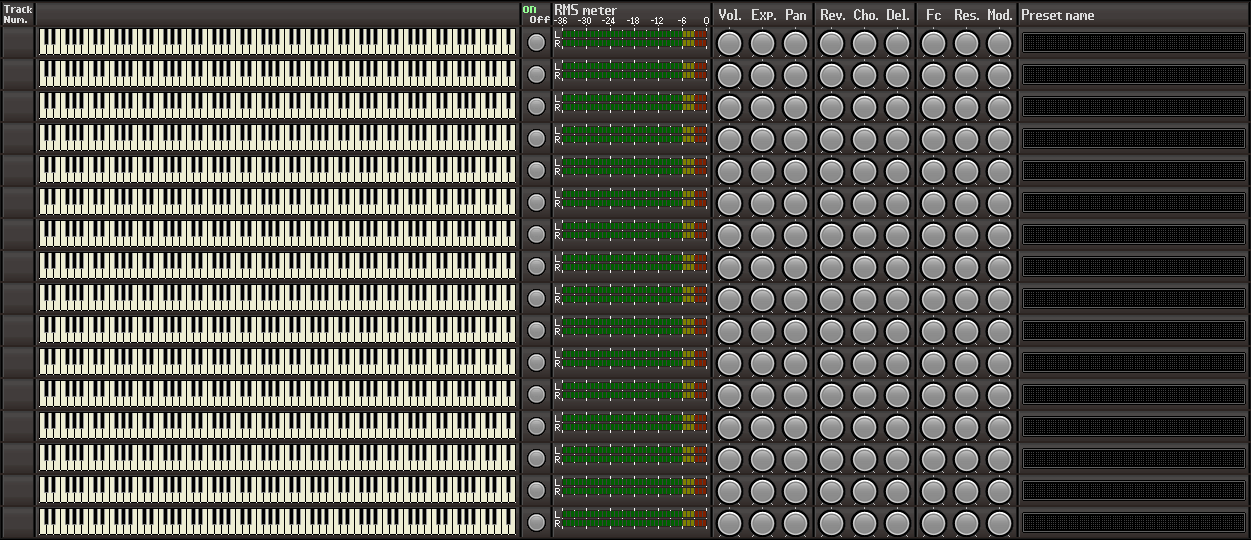
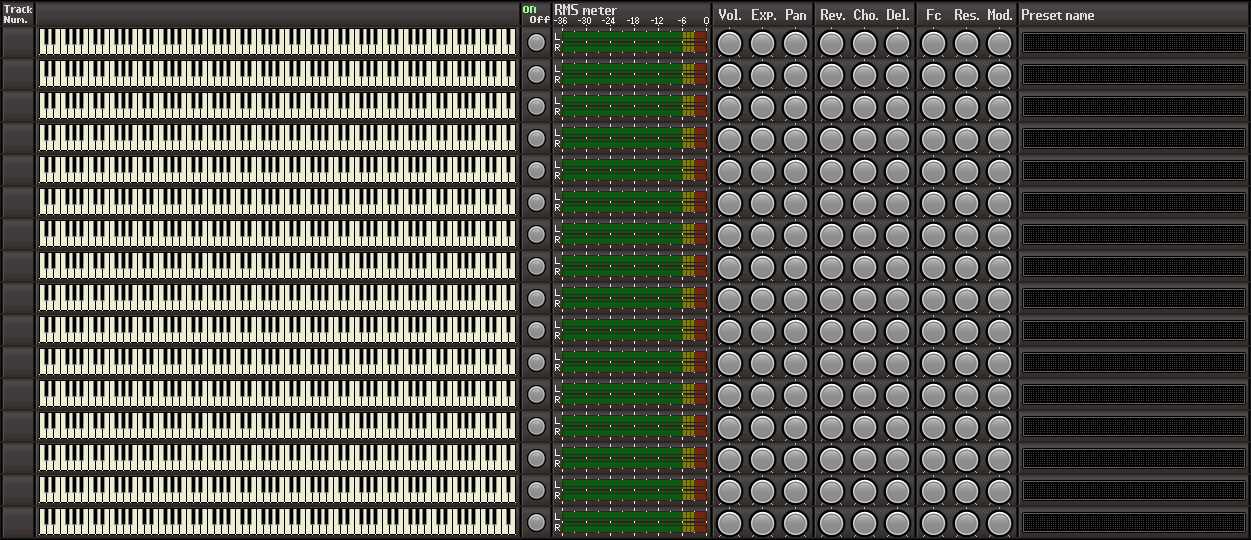
更新

Changed region(s): [[0.4365, 0.0296, 0.5612, 1.0]]

diff --git a/EasySequencer/Monitor.cs b/EasySequencer/Monitor.cs
@@ -45,8 +45,8 @@ namespace EasySequencer {
 
         static readonly Bitmap[,] BMP_FONT = new Bitmap[16, 6];
         static readonly Rectangle RECT_ON_OFF = new Rectangle(527, 33, 28, 30);
-        static readonly Rectangle RECT_METER_L = new Rectangle(563, 31, 144, 6);
-        static readonly Rectangle RECT_METER_R = new Rectangle(563, 40, 144, 6);
+        static readonly Rectangle RECT_RMS_L = new Rectangle(563, 32, 144, 6);
+        static readonly Rectangle RECT_RMS_R = new Rectangle(563, 46, 144, 6);
         static readonly Size SIZE_METER_CELL = new Size(4, 6);
         static readonly Rectangle RECT_PRESET_NAME = new Rectangle(1025, 36, 219, 13);
 
@@ -303,20 +303,18 @@ namespace EasySequencer {
                 }
                 rmsL = 20 * Math.Log10(rmsL);
                 rmsR = 20 * Math.Log10(rmsR);
-                rmsL = Math.Max(RMS_MIN, rmsL);
-                rmsR = Math.Max(RMS_MIN, rmsR);
-                rmsL = Math.Min(RMS_MAX, rmsL);
-                rmsR = Math.Min(RMS_MAX, rmsR);
                 var normL = 1.0 - (rmsL - RMS_MAX) / RMS_MIN;
                 var normR = 1.0 - (rmsR - RMS_MAX) / RMS_MIN;
-                var rmsLpx = (int)(normL * RECT_METER_L.Width + 1) / SIZE_METER_CELL.Width * SIZE_METER_CELL.Width;
-                var rmsRpx = (int)(normR * RECT_METER_R.Width + 1) / SIZE_METER_CELL.Width * SIZE_METER_CELL.Width;
+                var rmsLpx = (int)(normL * RECT_RMS_L.Width + 1) / SIZE_METER_CELL.Width * SIZE_METER_CELL.Width;
+                var rmsRpx = (int)(normR * RECT_RMS_R.Width + 1) / SIZE_METER_CELL.Width * SIZE_METER_CELL.Width;
+                rmsLpx = Math.Min(RECT_RMS_L.Width - 1, rmsLpx);
+                rmsRpx = Math.Min(RECT_RMS_R.Width - 1, rmsRpx);
                 mG.DrawImageUnscaledAndClipped(Resources.Meter, new Rectangle(
-                    RECT_METER_L.X, RECT_METER_L.Y + track_y,
+                    RECT_RMS_L.X, RECT_RMS_L.Y + track_y,
                     rmsLpx, SIZE_METER_CELL.Height
                 ));
                 mG.DrawImageUnscaledAndClipped(Resources.Meter, new Rectangle(
-                    RECT_METER_R.X, RECT_METER_R.Y + track_y,
+                    RECT_RMS_R.X, RECT_RMS_R.Y + track_y,
                     rmsRpx, SIZE_METER_CELL.Height
                 ));
 
